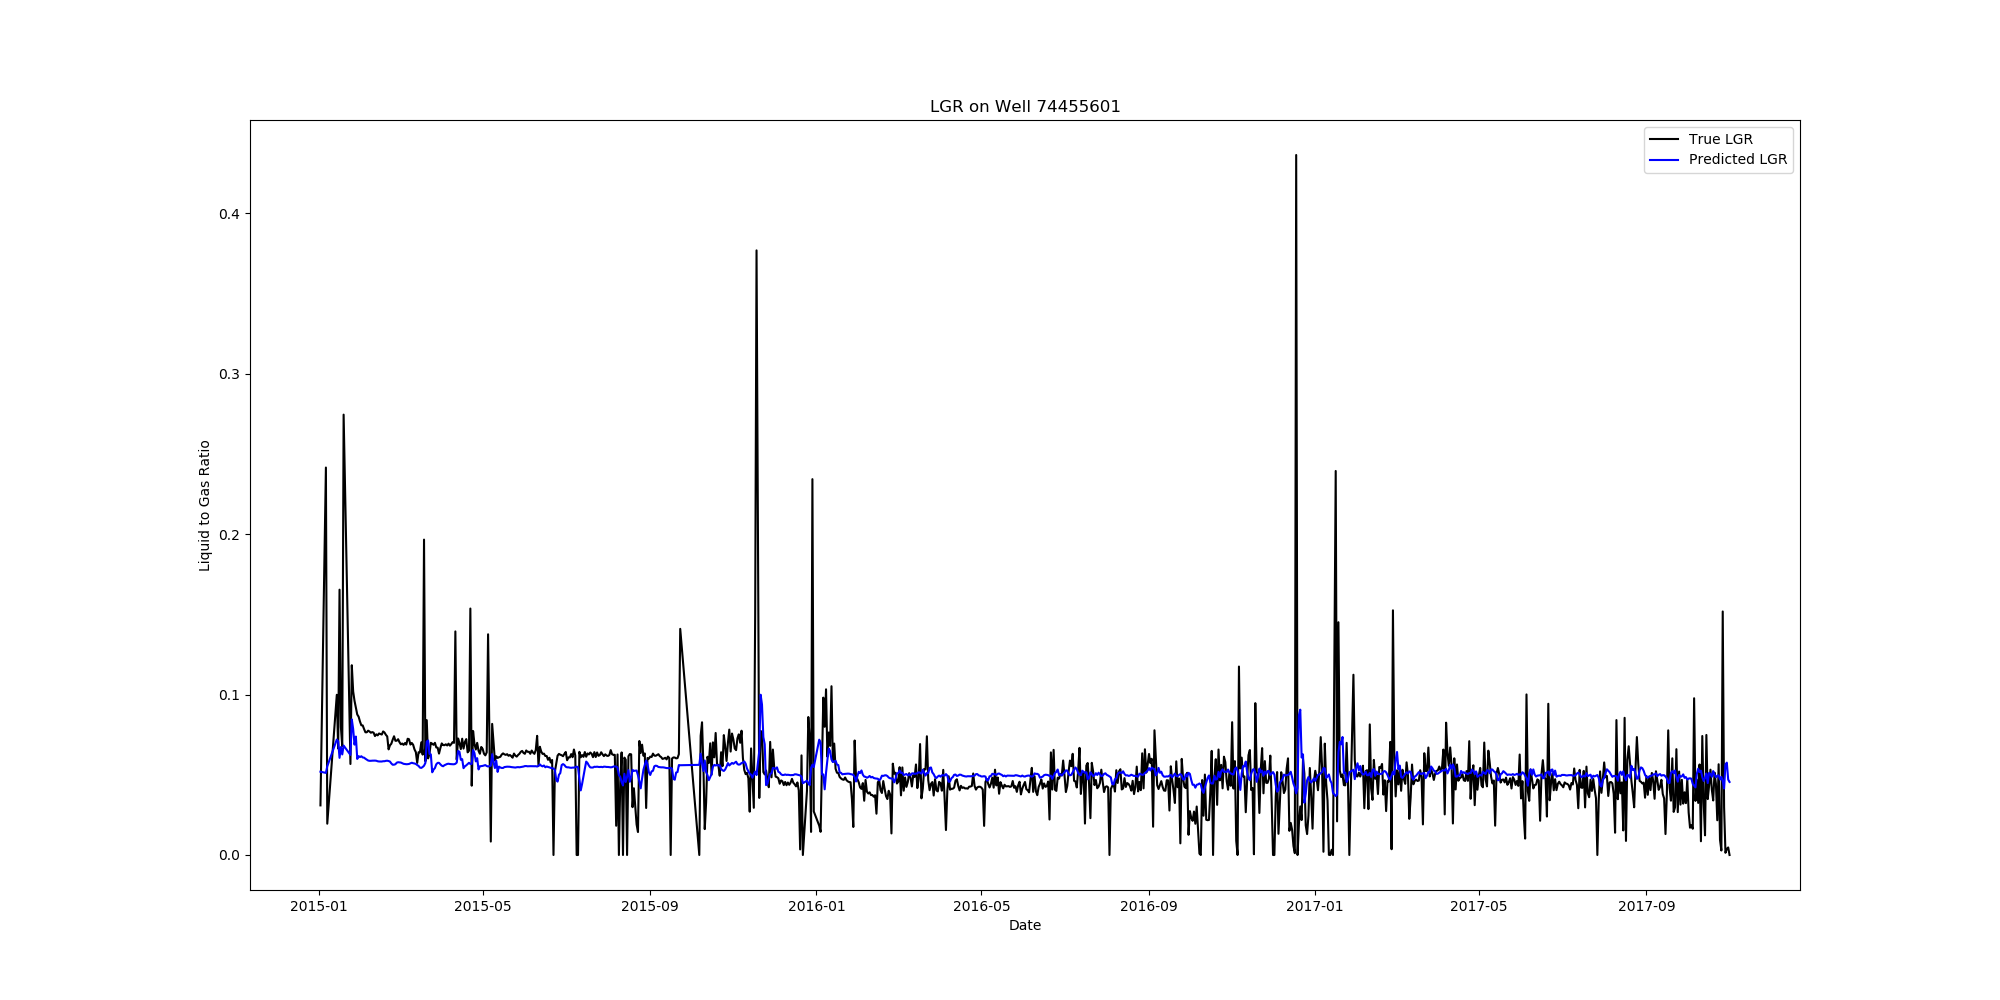
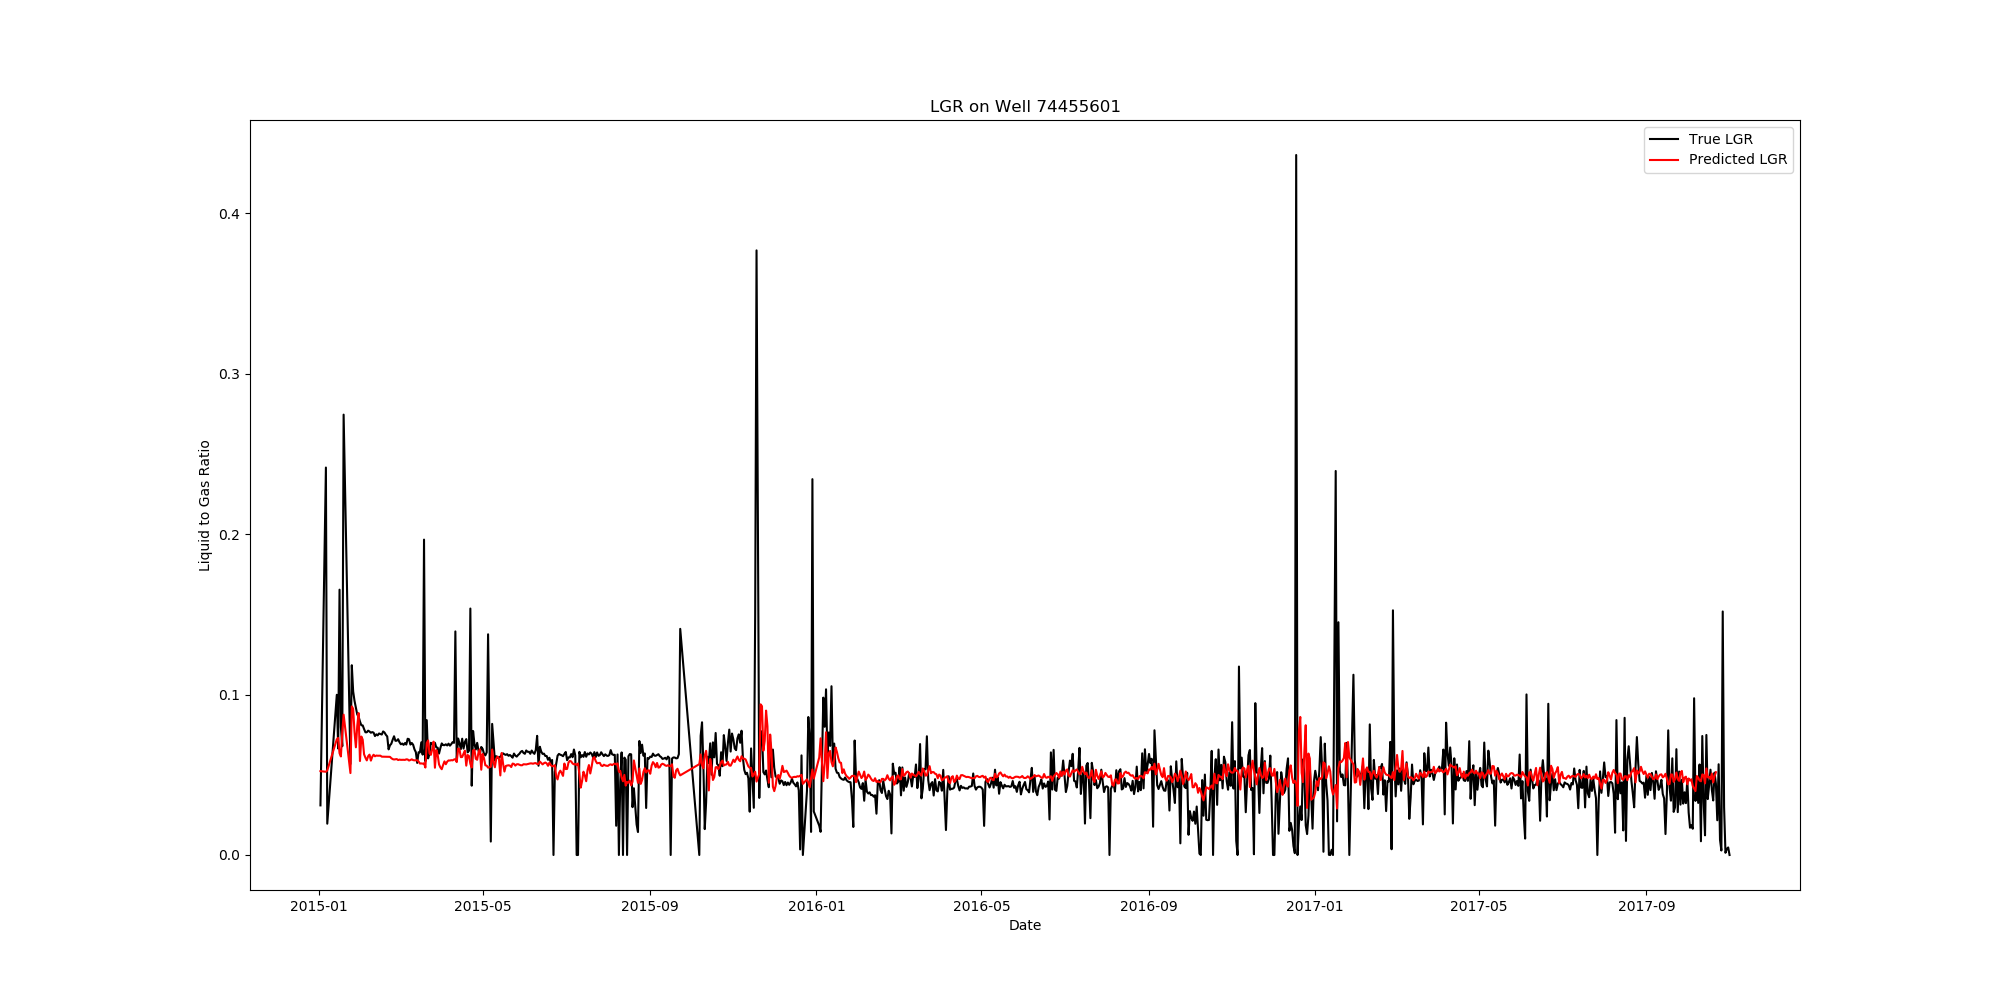
predictions with RMSE

Changed region(s): [[0.155, 0.713, 0.868, 0.806]]

diff --git a/production.py b/production.py
@@ -5,6 +5,7 @@ import matplotlib.pyplot as plt
 from pandas.plotting import autocorrelation_plot
 from pandas import datetime
 from statsmodels.tsa.arima_model import ARIMA
+from sklearn.metrics import mean_squared_error
 
 
 def prod_query():
@@ -132,21 +133,27 @@ def lgr(df, plot=False):
 	lgr_df.replace(np.inf, np.nan, inplace=True)
 	lgr_df.dropna(inplace=True)
 
+	# Train test split
 	arima_df = lgr_df.set_index('date')
-
-	arima_model = ARIMA(arima_df, order=(0,0,5))
+	train, test = arima_df[:-10], arima_df[-10:]
+	arima_model = ARIMA(train, order=(0,0,10))
 	model_fit = arima_model.fit()
 	# print(model_fit.summary())
-	pred = model_fit.predict(start=np.min(lgr_df['date']), end=np.max(lgr_df['date']))
-	forecast = model_fit.forecast()
+	pred = model_fit.predict(start=np.min(lgr_df['date']), end=np.max(lgr_df['date'][:-10]))
+	forecast, std_error, conf_int  = model_fit.forecast(steps=len(test))
+	error = mean_squared_error(test, forecast)
+	print('RMSE of forecast in %')
+	print(np.sqrt(error))
+	# print(ARIMA.score(model_fit))
 
 	if plot == True:
 		plt.close()
 		fig, ax = plt.subplots(1,1,figsize=(20,10))
 
 		ax.plot(lgr_df['date'].values, lgr_df['lgr'].values, 'k-', label='True LGR')
-		ax.plot(lgr_df['date'].values, pred, 'b-', label='Predicted LGR')
-		ax.plot
+		ax.plot(lgr_df['date'].values[:-10], pred, 'r-', label='Predicted LGR')
+		# ax.plot(lgr_df['date'].values, lgr_df['lgr'].values, 'k-', label='True LGR')
+		# ax.plot(lgr_df['date'].values, pred, 'b-', label='Predicted LGR')
 
 		ax.set_xlabel('Date')
 		ax.set_ylabel('Liquid to Gas Ratio')
@@ -164,7 +171,7 @@ def arima_params(df):
 if __name__ == '__main__':
 	df = prod_query()
 	# oil_df = oil_well(df)
-	lgr(df, plot=True)
+	lgr(df)
 	# arima_params(df[['DateKey', 'lgr']].values)
 	# prod_plot(df)
 
